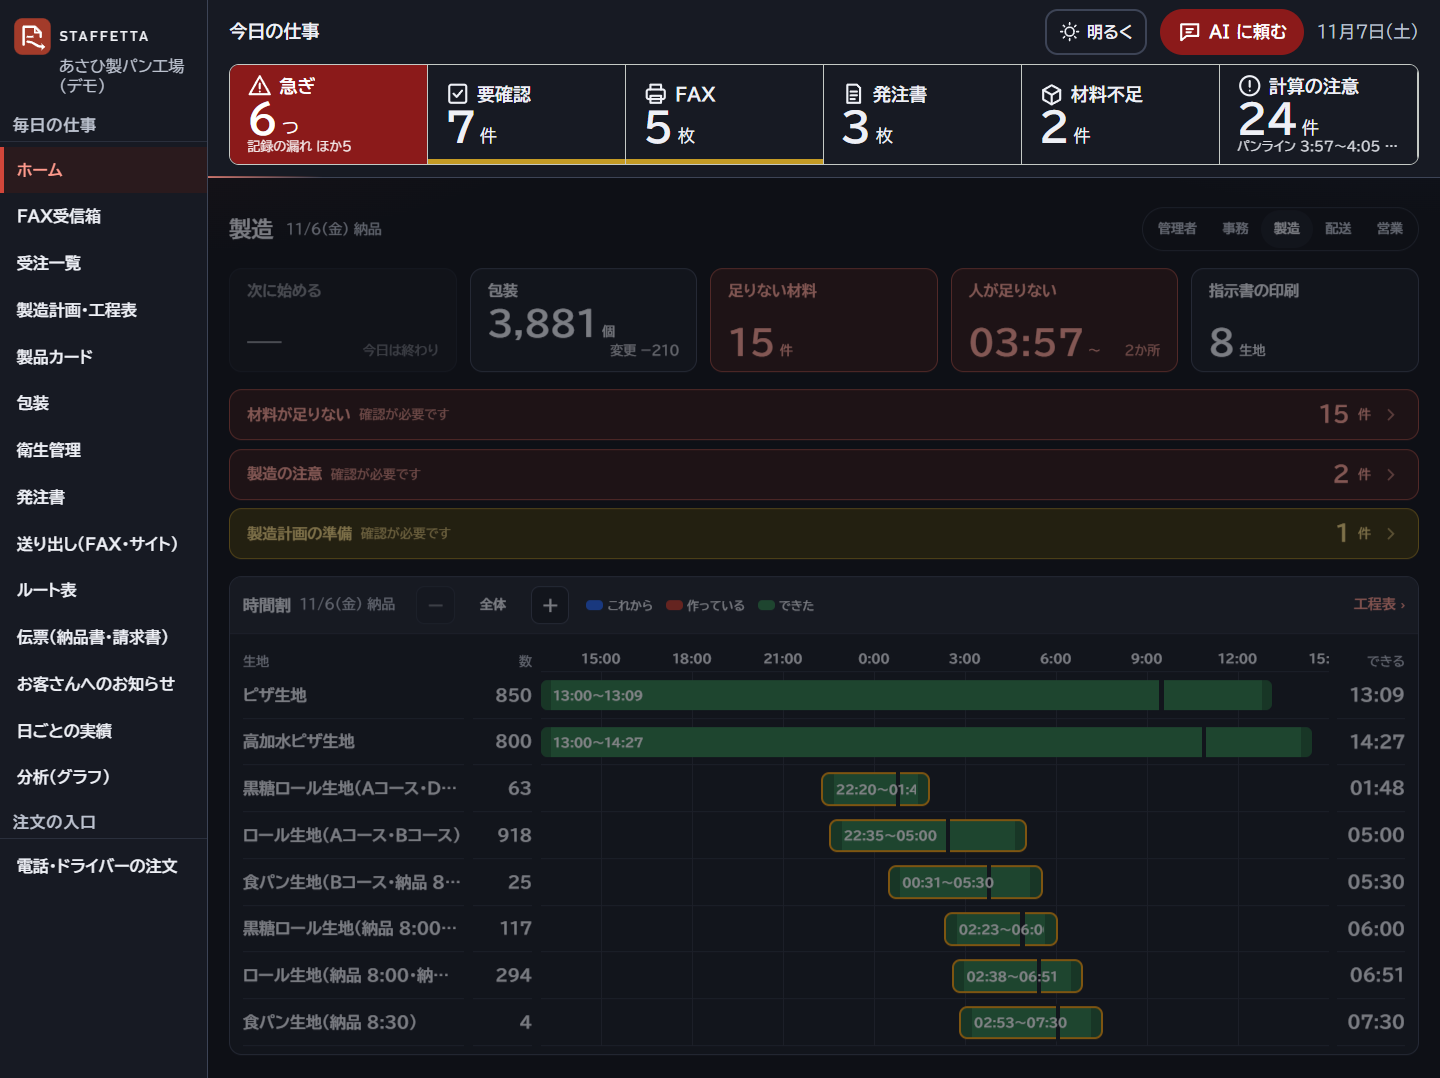
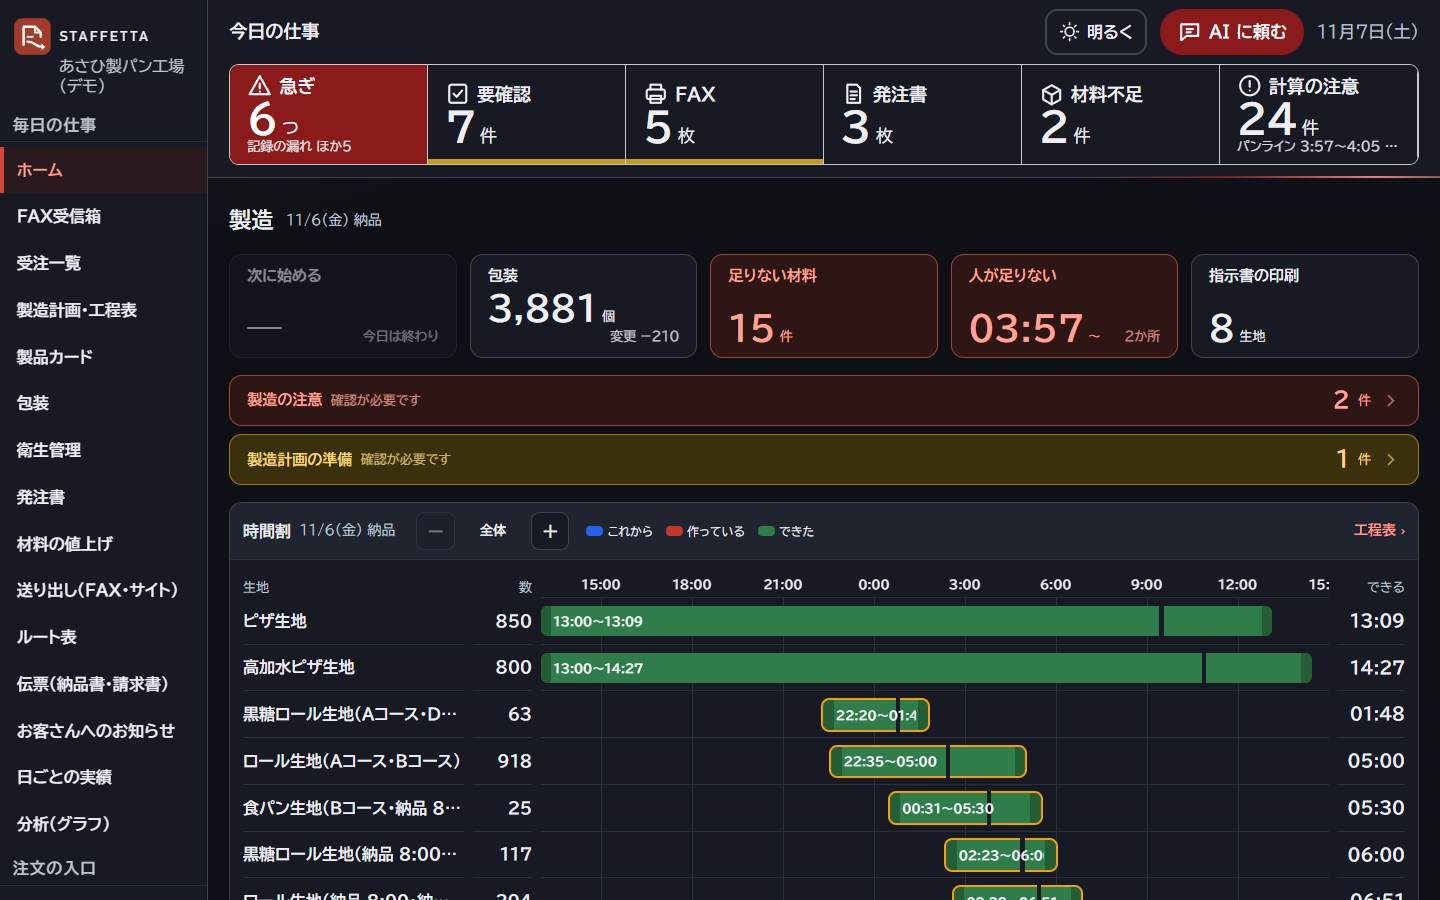
部署ごとのホーム（⑧・管理役2 11/7）: 部署の切りかえは管理者の画面だけに出す（担当者「入口（ログイン）で部署が決まる。クリックで切りかえない」。見本の状態でも、ほかの部署の画面には出さない。日ごとの実績も同じ）。タイルに同じ数が出ている種類は、下の「確認が必要です」の行に出さない（製造・管理者＝材料が足りない、事務＝確認待ち・発注書をまだ送っていない）

diff --git a/src/lib/home-dept.ts b/src/lib/home-dept.ts
@@ -61,6 +61,13 @@ const yen = (n: number) => `${Math.round(n / 1000).toLocaleString("ja-JP")}`;
 const num = (n: number) => n.toLocaleString("ja-JP");
 const tone = (n: number, red = false): TileTone => (n ? (red ? "red" : "plain") : "quiet");
 
+/** タイルに同じ数が出ている種類は、下の「確認が必要です」の行に出さない（⑧ 管理役2 11/7「同じ数は1か所に」） */
+const ON_TILE: Partial<Record<Role, string[]>> = {
+  工場: ["stock_shortage"],
+  事務: ["review_backlog", "po_not_sent"],
+  管理者: ["stock_shortage"],
+};
+
 export async function deptHome(role: Role): Promise<DeptHome> {
   const now = nowMs();
   const [summary, { orders, today }, masters, stored] = await Promise.all([todaySummary(now), allOrders(), loadMasters(), listPurchaseOrders()]);
@@ -107,7 +114,7 @@ export async function deptHome(role: Role): Promise<DeptHome> {
   // 確認が必要なもの（種類ごとにまとめる・その部署に要る種類だけ）
   const confirm = [
     ...(role === "事務" || role === "管理者" ? priceGroups(masters) : []),
-    ...groupAlerts(listAlerts().filter((a) => alertForRole(a.kind, role)), { levels: ["danger", "warn"] }),
+    ...groupAlerts(listAlerts().filter((a) => alertForRole(a.kind, role) && !(ON_TILE[role] ?? []).includes(a.kind)), { levels: ["danger", "warn"] }),
   ];
 
   const open = pos.filter((p) => p.status !== "sent");

diff --git a/src/app/home/page.tsx b/src/app/home/page.tsx
@@ -35,7 +35,8 @@ export default async function HomePage({ searchParams }: PageProps<"/home">) {
       <div className="flex flex-wrap items-center gap-x-3 gap-y-2">
         <h1 className="m-display text-[22px] font-black max-md:hidden">{deptName(role)}</h1>
         <span className="text-[14px] text-ink-soft max-md:hidden">{md(h.date)} 納品</span>
-        {canSwitch && (
+        {/* 部署の切りかえは管理者の画面だけ（担当者「入口（ログイン）で部署が決まる。クリックで切りかえない」）。見本の状態でも、ほかの部署の画面には出さない */}
+        {canSwitch && role === "管理者" && (
           <nav aria-label="部署" className="flex rounded-full border border-rule bg-paper p-0.5 md:ml-auto max-md:w-full">
             {ROLES.map((r) => (
               <Link key={r} href={r === "配送" ? "/driver" : `/home?as=${encodeURIComponent(r)}`} aria-current={r === role ? "page" : undefined}

diff --git a/src/app/daily/page.tsx b/src/app/daily/page.tsx
@@ -49,7 +49,8 @@ export default async function DailyPage({ searchParams }: PageProps<"/daily">) {
     <div className="space-y-3">
       <div className="flex flex-wrap items-center gap-x-3 gap-y-2">
         <h1 className="m-display text-[22px] font-black max-md:hidden">日ごとの実績</h1>
-        {canSwitch && (
+        {/* 部署の切りかえは管理者の画面だけ（担当者「入口（ログイン）で部署が決まる。クリックで切りかえない」）。見本の状態でも、ほかの部署の画面には出さない */}
+        {canSwitch && role === "管理者" && (
           <nav aria-label="部署" className="flex rounded-full border border-rule bg-paper p-0.5 md:ml-auto max-md:w-full">
             {ROLES.map((r) => (
               <Link key={r} href={`/daily?as=${encodeURIComponent(r)}&date=${date}`} aria-current={r === role ? "page" : undefined}
